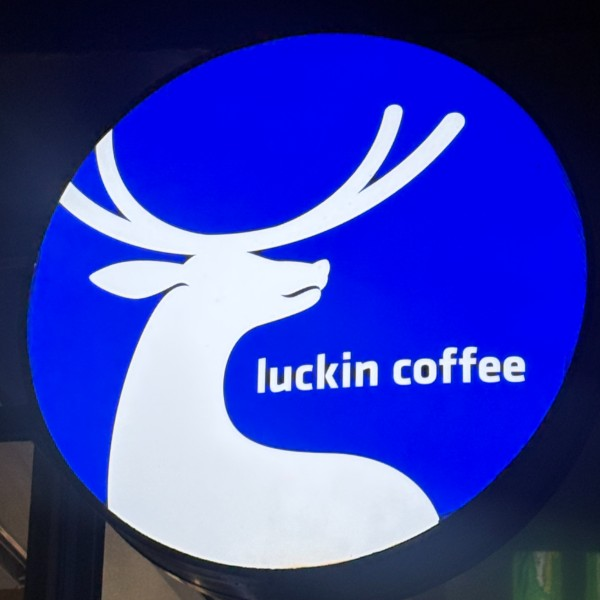
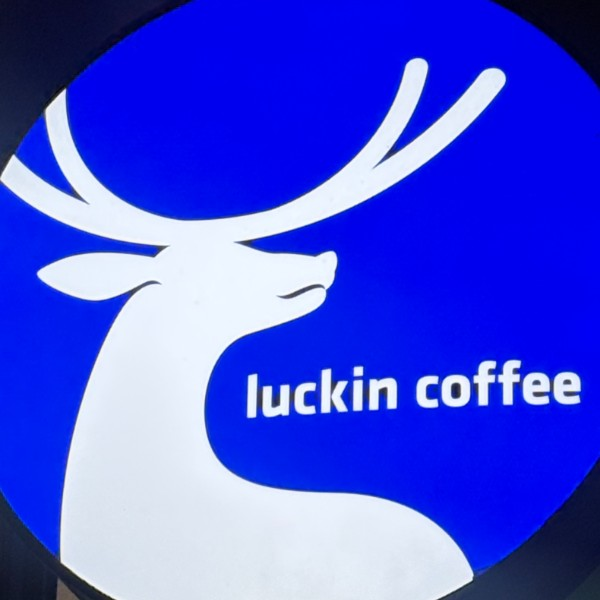
루이싱 기본 사진: 파란 원이 칸을 채우게 더 바짝 자름

diff --git a/heka_home_v5.html b/heka_home_v5.html
@@ -1160,7 +1160,7 @@ window._fbFns = { collection, getDocs, getDoc, setDoc, doc, updateDoc, query, wh
 var CAT_IMAGES = { "ATM": "img/cat-atm.jpg", "기타": "img/cat-etc.jpg", "마트": "img/cat-mart.jpg", "쇼핑": "img/cat-shopping.jpg", "식당": "img/cat-restaurant.jpg", "입장권": "img/cat-ticket.jpg", "카페": "img/cat-cafe.jpg", "패스트푸드": "img/cat-fastfood.jpg", "술집": "img/cat-sooljip.jpg", "편의점": "img/cat-convenience.jpg", "호텔": "img/cat-hotel.jpg", "코인로커": "img/cat-locker.jpg", "짐 운반": "img/cat-luggage.jpg", "코인세탁소": "img/cat-laundry.jpg", "환전소": "img/cat-exchange.jpg", "온천": "img/cat-bath.jpg", "목욕탕": "img/cat-bath.jpg", "게임센터": "img/cat-arcade.jpg", "노래방": "img/cat-karaoke.jpg", "만화카페": "img/cat-mangacafe.jpg" };
 function catImage(cat) { return CAT_IMAGES[cat] || ""; }
 // 체인점 기본 사진: 매장 사진이 없을 때 업종 그림 대신 쓴다(직접 찍어 온 간판 사진을 자른 것). 이름이 정확히 같은 매장만
-var BRAND_IMAGES = { "루이싱 커피": "img/brand-luckin.jpg" };
+var BRAND_IMAGES = { "루이싱 커피": "img/brand-luckin.jpg?v=2" };
 function brandImage(s) { return (s && BRAND_IMAGES[s.name]) || ""; }
 function storeThumb(s) { return (s && s.images && s.images[0]) || brandImage(s) || catImage(s && s.cuisine !== '기타' && s.cuisine) || catImage(s && s.category) || ""; }
 </script>

diff --git a/heka_city.html b/heka_city.html
@@ -165,7 +165,7 @@ body{font-family:'Plus Jakarta Sans',Pretendard,-apple-system,BlinkMacSystemFont
 var CAT_IMAGES = { "ATM": "img/cat-atm.jpg", "기타": "img/cat-etc.jpg", "마트": "img/cat-mart.jpg", "쇼핑": "img/cat-shopping.jpg", "식당": "img/cat-restaurant.jpg", "입장권": "img/cat-ticket.jpg", "카페": "img/cat-cafe.jpg", "패스트푸드": "img/cat-fastfood.jpg", "술집": "img/cat-sooljip.jpg", "편의점": "img/cat-convenience.jpg", "호텔": "img/cat-hotel.jpg", "코인로커": "img/cat-locker.jpg", "짐 운반": "img/cat-luggage.jpg", "코인세탁소": "img/cat-laundry.jpg", "환전소": "img/cat-exchange.jpg", "온천": "img/cat-bath.jpg", "목욕탕": "img/cat-bath.jpg", "게임센터": "img/cat-arcade.jpg", "노래방": "img/cat-karaoke.jpg", "만화카페": "img/cat-mangacafe.jpg" };
 function catImage(cat) { return CAT_IMAGES[cat] || ""; }
 // 체인점 기본 사진: 매장 사진이 없을 때 업종 그림 대신 쓴다(직접 찍어 온 간판 사진을 자른 것). 이름이 정확히 같은 매장만
-var BRAND_IMAGES = { "루이싱 커피": "img/brand-luckin.jpg" };
+var BRAND_IMAGES = { "루이싱 커피": "img/brand-luckin.jpg?v=2" };
 function brandImage(s) { return (s && BRAND_IMAGES[s.name]) || ""; }
 function storeThumb(s) { return (s && s.images && s.images[0]) || brandImage(s) || catImage(s && s.cuisine !== '기타' && s.cuisine) || catImage(s && s.category) || ""; }
 </script>

diff --git a/heka_nearby_all.html b/heka_nearby_all.html
@@ -227,7 +227,7 @@ body{background:var(--hk-bg)!important;font-family:'Plus Jakarta Sans',Pretendar
 var CAT_IMAGES = { "ATM": "img/cat-atm.jpg", "기타": "img/cat-etc.jpg", "마트": "img/cat-mart.jpg", "쇼핑": "img/cat-shopping.jpg", "식당": "img/cat-restaurant.jpg", "입장권": "img/cat-ticket.jpg", "카페": "img/cat-cafe.jpg", "패스트푸드": "img/cat-fastfood.jpg", "술집": "img/cat-sooljip.jpg", "편의점": "img/cat-convenience.jpg", "호텔": "img/cat-hotel.jpg", "코인로커": "img/cat-locker.jpg", "짐 운반": "img/cat-luggage.jpg", "코인세탁소": "img/cat-laundry.jpg", "환전소": "img/cat-exchange.jpg", "온천": "img/cat-bath.jpg", "목욕탕": "img/cat-bath.jpg", "게임센터": "img/cat-arcade.jpg", "노래방": "img/cat-karaoke.jpg", "만화카페": "img/cat-mangacafe.jpg" };
 function catImage(cat) { return CAT_IMAGES[cat] || ""; }
 // 체인점 기본 사진: 매장 사진이 없을 때 업종 그림 대신 쓴다(직접 찍어 온 간판 사진을 자른 것). 이름이 정확히 같은 매장만
-var BRAND_IMAGES = { "루이싱 커피": "img/brand-luckin.jpg" };
+var BRAND_IMAGES = { "루이싱 커피": "img/brand-luckin.jpg?v=2" };
 function brandImage(s) { return (s && BRAND_IMAGES[s.name]) || ""; }
 function storeThumb(s) { return (s && s.images && s.images[0]) || brandImage(s) || catImage(s && s.cuisine !== '기타' && s.cuisine) || catImage(s && s.category) || ""; }
 </script>

diff --git a/heka_zzim.html b/heka_zzim.html
@@ -107,7 +107,7 @@ body{background:var(--hk-bg)!important;font-family:'Plus Jakarta Sans',Pretendar
 var CAT_IMAGES = { "ATM": "img/cat-atm.jpg", "기타": "img/cat-etc.jpg", "마트": "img/cat-mart.jpg", "쇼핑": "img/cat-shopping.jpg", "식당": "img/cat-restaurant.jpg", "입장권": "img/cat-ticket.jpg", "카페": "img/cat-cafe.jpg", "패스트푸드": "img/cat-fastfood.jpg", "술집": "img/cat-sooljip.jpg", "편의점": "img/cat-convenience.jpg", "호텔": "img/cat-hotel.jpg", "코인로커": "img/cat-locker.jpg", "짐 운반": "img/cat-luggage.jpg", "코인세탁소": "img/cat-laundry.jpg", "환전소": "img/cat-exchange.jpg", "온천": "img/cat-bath.jpg", "목욕탕": "img/cat-bath.jpg", "게임센터": "img/cat-arcade.jpg", "노래방": "img/cat-karaoke.jpg", "만화카페": "img/cat-mangacafe.jpg" };
 function catImage(cat) { return CAT_IMAGES[cat] || ""; }
 // 체인점 기본 사진: 매장 사진이 없을 때 업종 그림 대신 쓴다(직접 찍어 온 간판 사진을 자른 것). 이름이 정확히 같은 매장만
-var BRAND_IMAGES = { "루이싱 커피": "img/brand-luckin.jpg" };
+var BRAND_IMAGES = { "루이싱 커피": "img/brand-luckin.jpg?v=2" };
 function brandImage(s) { return (s && BRAND_IMAGES[s.name]) || ""; }
 function storeThumb(s) { return (s && s.images && s.images[0]) || brandImage(s) || catImage(s && s.cuisine !== '기타' && s.cuisine) || catImage(s && s.category) || ""; }
 </script>

diff --git a/heka_mypage.html b/heka_mypage.html
@@ -372,7 +372,7 @@ window._loadNotices = async function() {
 var CAT_IMAGES = { "ATM": "img/cat-atm.jpg", "기타": "img/cat-etc.jpg", "마트": "img/cat-mart.jpg", "쇼핑": "img/cat-shopping.jpg", "식당": "img/cat-restaurant.jpg", "입장권": "img/cat-ticket.jpg", "카페": "img/cat-cafe.jpg", "패스트푸드": "img/cat-fastfood.jpg", "술집": "img/cat-sooljip.jpg", "편의점": "img/cat-convenience.jpg", "호텔": "img/cat-hotel.jpg", "코인로커": "img/cat-locker.jpg", "짐 운반": "img/cat-luggage.jpg", "코인세탁소": "img/cat-laundry.jpg", "환전소": "img/cat-exchange.jpg", "온천": "img/cat-bath.jpg", "목욕탕": "img/cat-bath.jpg", "게임센터": "img/cat-arcade.jpg", "노래방": "img/cat-karaoke.jpg", "만화카페": "img/cat-mangacafe.jpg" };
 function catImage(cat) { return CAT_IMAGES[cat] || ""; }
 // 체인점 기본 사진: 매장 사진이 없을 때 업종 그림 대신 쓴다(직접 찍어 온 간판 사진을 자른 것). 이름이 정확히 같은 매장만
-var BRAND_IMAGES = { "루이싱 커피": "img/brand-luckin.jpg" };
+var BRAND_IMAGES = { "루이싱 커피": "img/brand-luckin.jpg?v=2" };
 function brandImage(s) { return (s && BRAND_IMAGES[s.name]) || ""; }
 </script>
 </head>

diff --git a/heka_store_detail.html b/heka_store_detail.html
@@ -848,7 +848,7 @@ window._arrayUnion = arrayUnion;
 var CAT_IMAGES = { "ATM": "img/cat-atm.jpg", "기타": "img/cat-etc.jpg", "마트": "img/cat-mart.jpg", "쇼핑": "img/cat-shopping.jpg", "식당": "img/cat-restaurant.jpg", "입장권": "img/cat-ticket.jpg", "카페": "img/cat-cafe.jpg", "패스트푸드": "img/cat-fastfood.jpg", "술집": "img/cat-sooljip.jpg", "편의점": "img/cat-convenience.jpg", "호텔": "img/cat-hotel.jpg", "코인로커": "img/cat-locker.jpg", "짐 운반": "img/cat-luggage.jpg", "코인세탁소": "img/cat-laundry.jpg", "환전소": "img/cat-exchange.jpg", "온천": "img/cat-bath.jpg", "목욕탕": "img/cat-bath.jpg", "게임센터": "img/cat-arcade.jpg", "노래방": "img/cat-karaoke.jpg", "만화카페": "img/cat-mangacafe.jpg" };
 function catImage(cat) { return CAT_IMAGES[cat] || ""; }
 // 체인점 기본 사진: 매장 사진이 없을 때 업종 그림 대신 쓴다(직접 찍어 온 간판 사진을 자른 것). 이름이 정확히 같은 매장만
-var BRAND_IMAGES = { "루이싱 커피": "img/brand-luckin.jpg" };
+var BRAND_IMAGES = { "루이싱 커피": "img/brand-luckin.jpg?v=2" };
 function brandImage(s) { return (s && BRAND_IMAGES[s.name]) || ""; }
 </script>
 <style>
